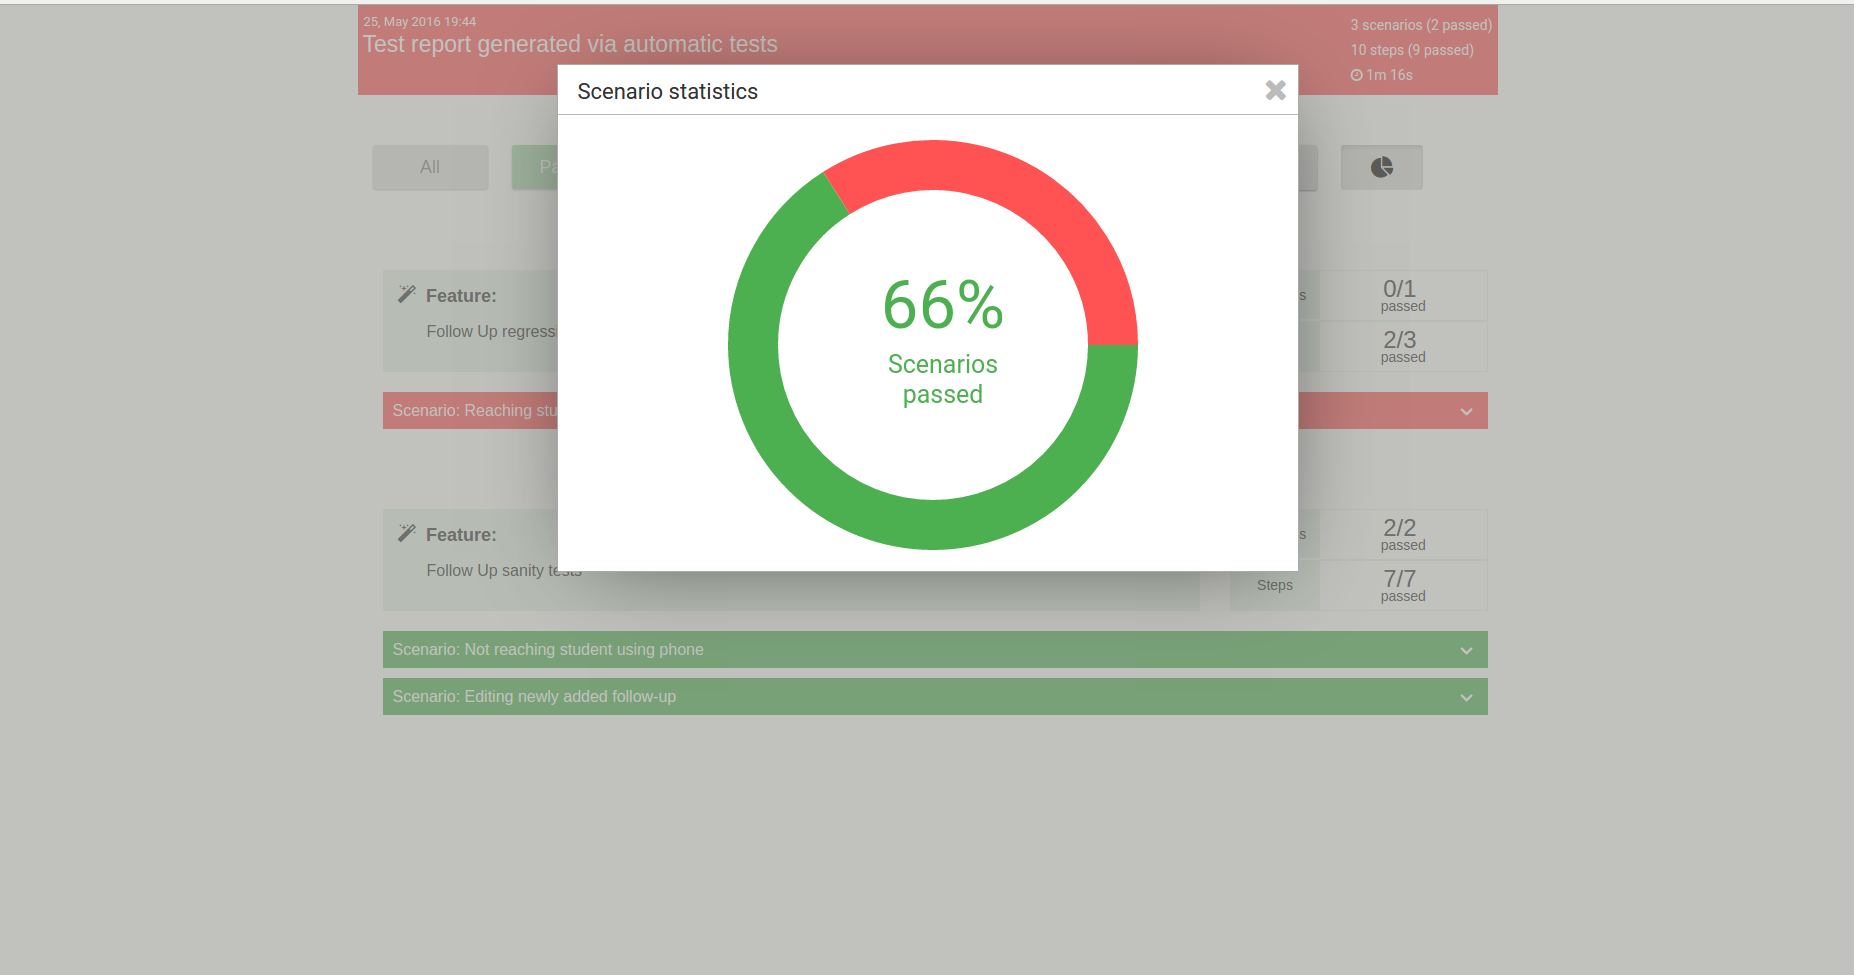
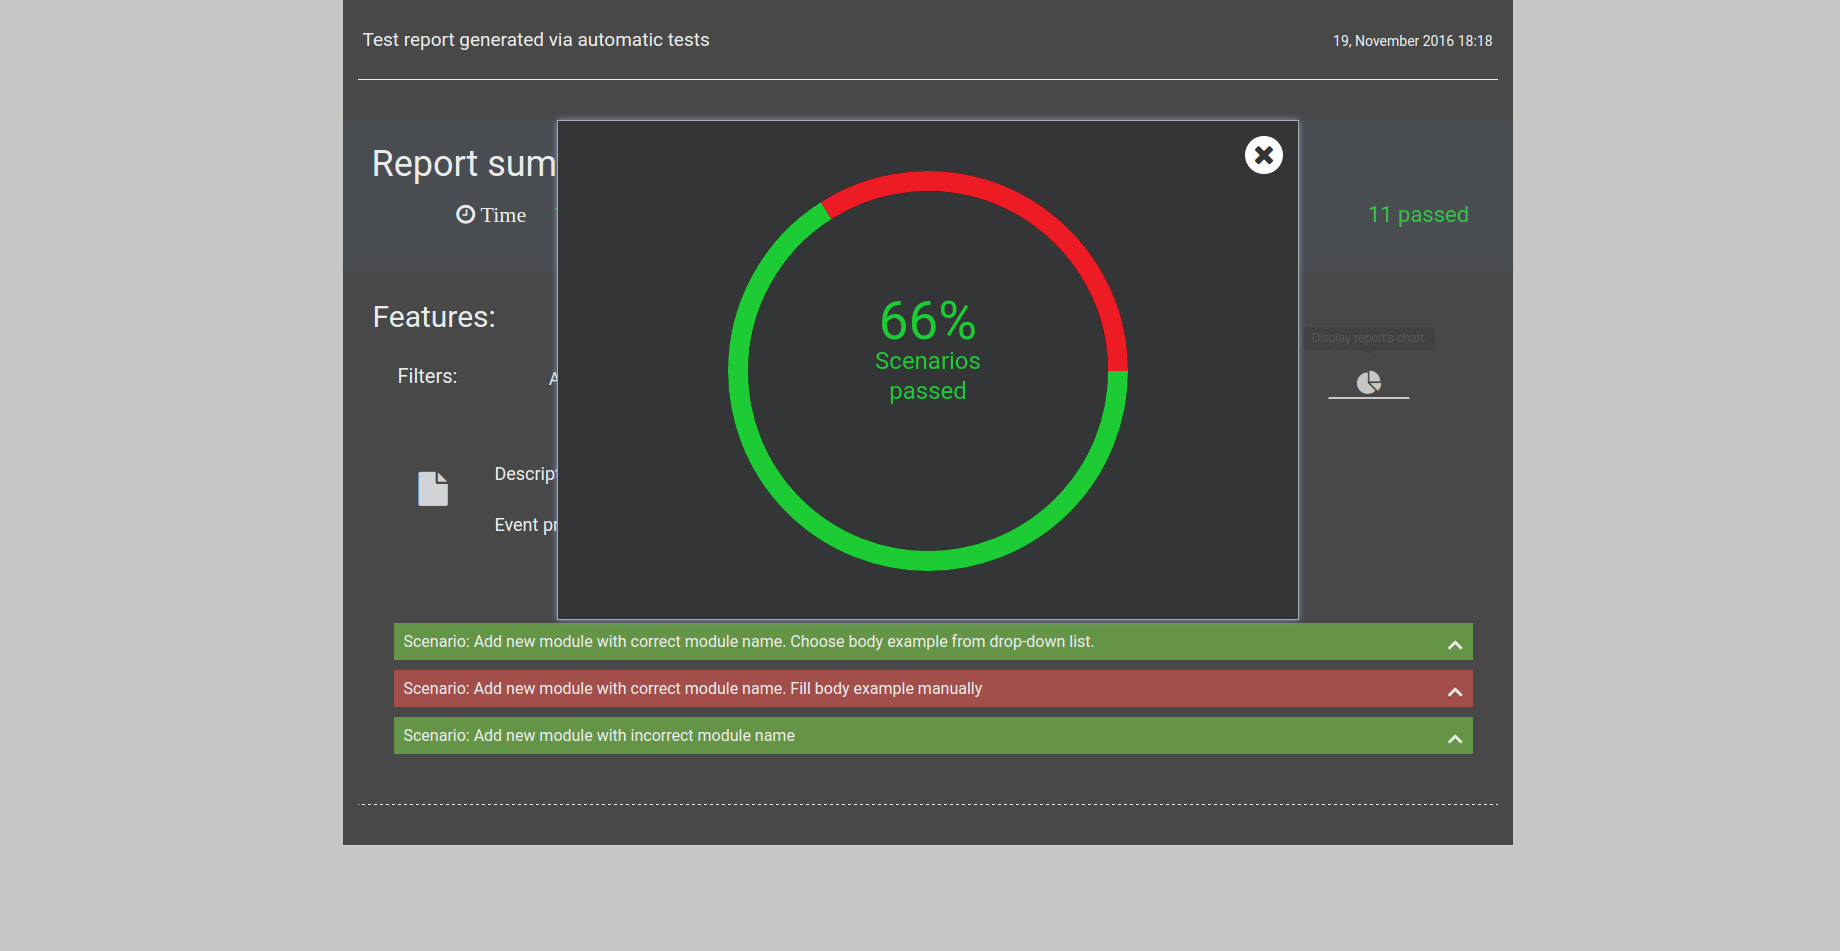
adopt a new version

diff --git a/templates/assets/css/style.css b/templates/assets/css/style.css
@@ -83,7 +83,7 @@ html, body {
   background: no-repeat;
   background-attachment: fixed;
   /*background-image: url("../images/background.jpg");*/
-  background-color: #EDF2F9;
+  background-color: #D3D3D3;
   background-position: left;
   background-size: 100% 100%; }
 
@@ -347,11 +347,11 @@ header {
   font-size: 18px;
   cursor: pointer; }
   .btn.focus, .btn:focus, .btn:hover {
-    color: #EDF2F9;
+    color: #D3D3D3;
     text-decoration: none;
-    border-bottom: solid 2px #EDF2F9; }
+    border-bottom: solid 2px #D3D3D3; }
   .btn.active {
-    border-bottom: solid 2px #EDF2F9;
+    border-bottom: solid 2px #D3D3D3;
     box-shadow: inset 0 0px 0px rgba(0, 0, 0, 0.125); }
 
 .filtering-buttons-header {
@@ -430,7 +430,7 @@ header {
 .btn_list:active, .btn_list:hover,
 .btn_chart, .btn_chart.active, .btn_chart.active:hover, .btn_chart.active:focus,
 .btn_chart:active, .btn_chart:hover {
-  color: #EDF2F9;
+  color: #D3D3D3;
   opacity: 1;
   box-shadow: none;
   -webkit-box-shadow: none;

diff --git a/Gruntfile.js b/Gruntfile.js
@@ -37,7 +37,7 @@ module.exports = function(grunt) {
           dest: 'tmp',
           output: 'report.html',
           testJSONDirectory: 'assets',
-          reportTitle: "Test report generated via automatic tests"
+          reportTitle: "Cucumber tests output"
         }
       }
     },

diff --git a/_sass/style.scss b/_sass/style.scss
@@ -7,7 +7,7 @@ $failed-color: #A53D39;
 $skipped-color: #696969;
 $pending-color: #fcdfc2;
 $undefined-color: #fcdfc2;
-$background-color: #EDF2F9;
+$background-color: #D3D3D3;
 $file-icon-color: #DFE2E7;
 $test-summary-header-color: #363A40;
 $data-details-color: #A3C1FD;

diff --git a/README.md b/README.md
@@ -1,4 +1,4 @@
-# grunt-protractor-cucumber-html-report
+# cucumber-tests-html-reporter
 
 > Generate html report from JSON file returned by cucumber js json formatter
 
@@ -8,19 +8,19 @@ This plugin requires Grunt `~0.4.5`
 If you haven't used [Grunt](http://gruntjs.com/) before, be sure to check out the [Getting Started](http://gruntjs.com/getting-started) guide, as it explains how to create a [Gruntfile](http://gruntjs.com/sample-gruntfile) as well as install and use Grunt plugins. Once you're familiar with that process, you may install this plugin with this command:
 
 ```shell
-npm install grunt-protractor-cucumber-html-report --save-dev
+npm install cucumber-tests-html-reporter --save-dev
 ```
 
 Once the plugin has been installed, it may be enabled inside your Gruntfile with this line of JavaScript:
 
 ```js
-grunt.loadNpmTasks('grunt-protractor-cucumber-html-report');
+grunt.loadNpmTasks('cucumber-tests-html-reporter');
 ```
 
-## The "protractor-cucumber-html-report" task
+## The "cucumber-tests-html-reporter" task
 
 ### Overview
-In your project's Gruntfile, add a section named `protractor-cucumber-html-report` to the data object passed into `grunt.initConfig()`.
+In your project's Gruntfile, add a section named `cucumber-tests-html-reporter` to the data object passed into `grunt.initConfig()`.
 
 ```js
 grunt.initConfig({
@@ -64,7 +64,7 @@ A string value that is used to do something else with whatever else.
 
 ```js
 grunt.initConfig({
-  'protractor-cucumber-html-report': {
+  'cucumber-tests-html-reporter': {
     options: {
       dest: '.',
       output: 'report.html',
